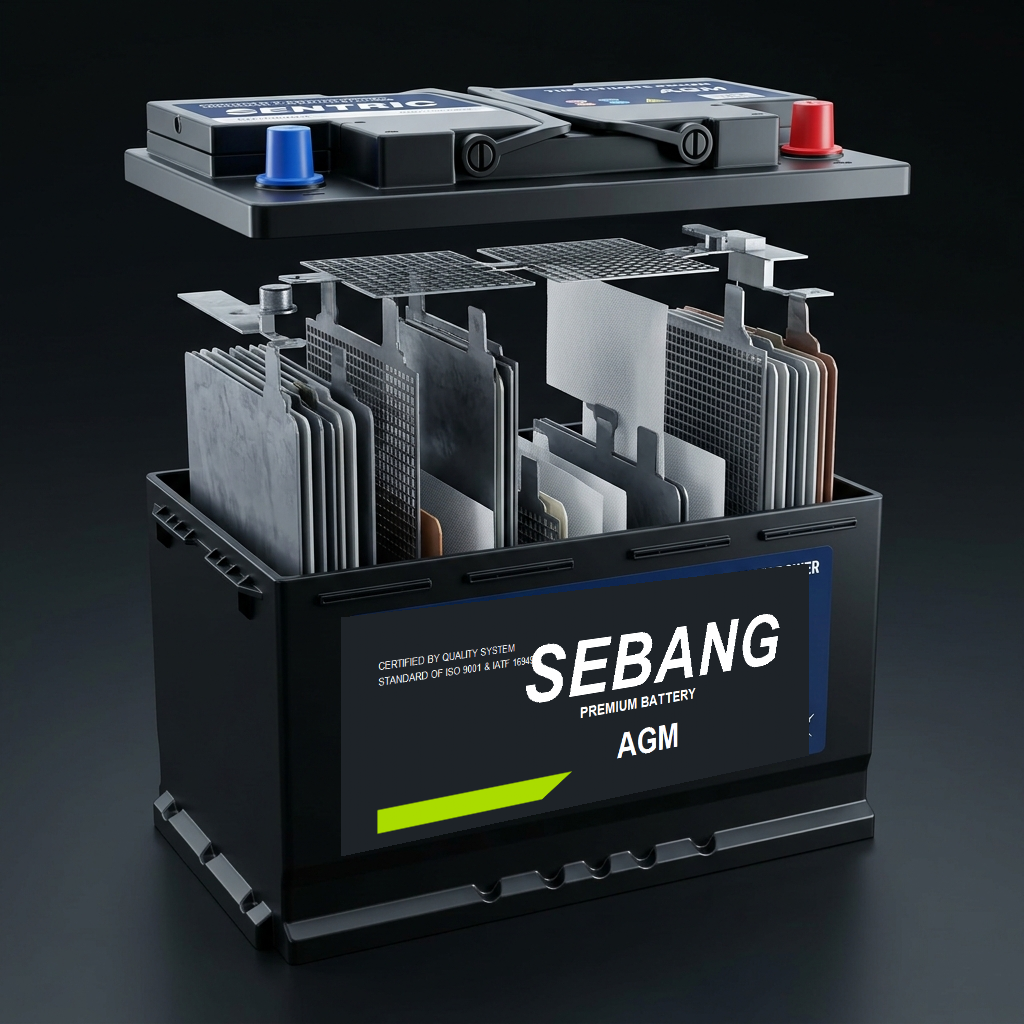
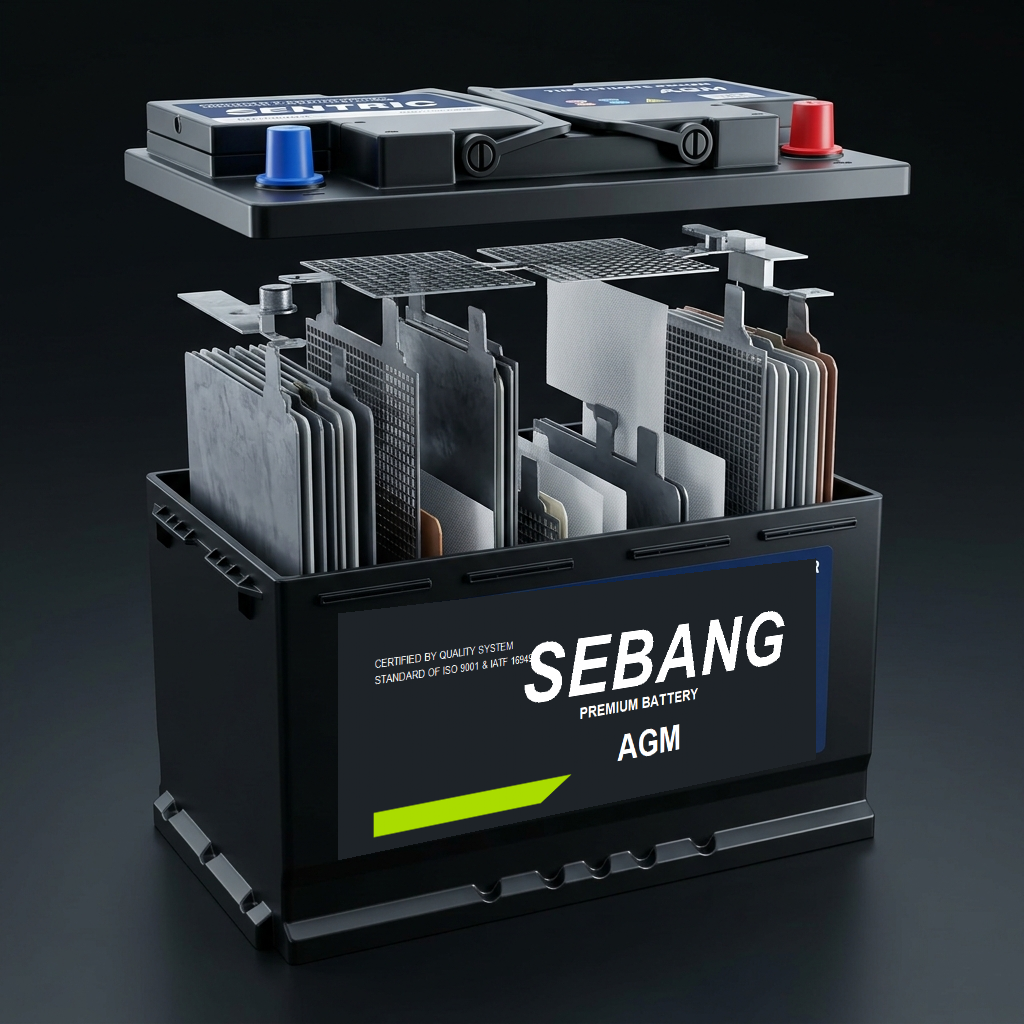
fix: perfectly align sebang labels and cover old label completely

Changed region(s): [[0.375, 0.5312, 0.8125, 0.75], [0.3125, 0.75, 0.5625, 0.8438], [0.4688, 0.5625, 0.6562, 0.5938]]

diff --git a/index.html b/index.html
@@ -98,7 +98,7 @@
                 </div>
                 <div class="about-image slide-in-right">
                     <div class="image-wrapper glassmorphism">
-                        <img src="assets/battery_sebang_final.png?v=2" alt="Seabang Premium" class="floating">
+                        <img src="assets/battery_sebang_final.png?v=3" alt="Seabang Premium" class="floating">
                     </div>
                 </div>
             </div>
@@ -302,7 +302,7 @@
         <div class="container">
             <div class="features-wrapper">
                 <div class="features-image slide-in-left">
-                    <img src="assets/sebang_detailed_exploded_final.png" alt="Battery Internals">
+                    <img src="assets/sebang_detailed_exploded_final.png?v=2" alt="Battery Internals">
                 </div>
                 <div class="features-content slide-in-right">
                     <h4 class="section-subtitle">Kalitenin Anatomisi</h4>
